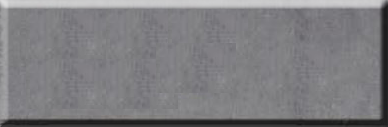
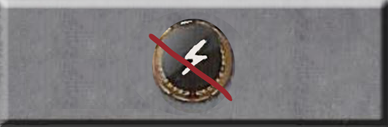
Now a player can Fold Quick Action

Changed region(s): [[0.3711, 0.1417, 0.6186, 0.874]]

diff --git a/src/main/java/it/polimi/ingsw/cg26/client/Client.java b/src/main/java/it/polimi/ingsw/cg26/client/Client.java
@@ -426,6 +426,7 @@ public class Client extends Application implements it.polimi.ingsw.cg26.common.o
         pane.getChangeBPT().addEventHandler(MouseEvent.MOUSE_CLICKED, event -> changeBPT());
         pane.getElectAsQuickAction().addEventHandler(MouseEvent.MOUSE_CLICKED, event -> electAsQuickAction());
         pane.getAdditionalMainAction().addEventHandler(MouseEvent.MOUSE_CLICKED, event -> additionalMainAction());
+        pane.getFoldQuickAction().addEventHandler(MouseEvent.MOUSE_CLICKED, event -> foldQuickAction());
         
         root.getChildren().add(showHidePane);
         root.getChildren().add(pane);
@@ -553,6 +554,20 @@ public class Client extends Application implements it.polimi.ingsw.cg26.common.o
     }
 
     private void foldQuickAction() {
+    	Dialog<FoldQuickActionCommand> d = new Dialog<>();
+    	d.setContentText("Are you sure you don't want to use your quick action?");
+    	ButtonType buttonTypeOk = new ButtonType("Ok", ButtonBar.ButtonData.OK_DONE);
+        d.getDialogPane().getButtonTypes().add(buttonTypeOk);
+        ButtonType buttonTypeCancel = new ButtonType("Cancel", ButtonBar.ButtonData.CANCEL_CLOSE);
+        d.getDialogPane().getButtonTypes().add(buttonTypeCancel);
+        d.setResultConverter(b -> {
+        	if (b == buttonTypeOk)
+                return new FoldQuickActionCommand();
+            return null;
+        });
+        Optional<FoldQuickActionCommand> result = d.showAndWait();
+        if (result.isPresent())
+            outView.writeObject(result.get());
         System.out.println("foldQuickAction");
     }
 
